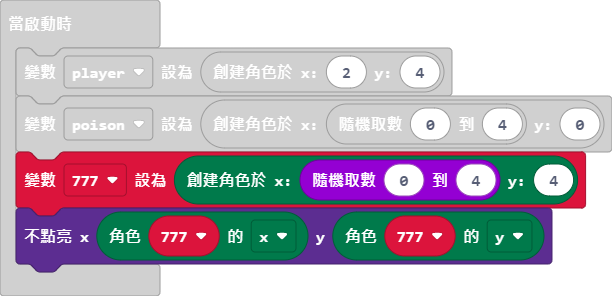
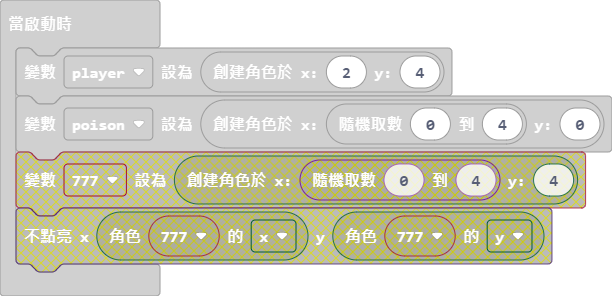
更新 main.blocks, main.ts

diff --git a/main.ts b/main.ts
@@ -7,8 +7,6 @@ input.onButtonPressed(Button.B, function () {
 let player: game.LedSprite = null
 player = game.createSprite(2, 4)
 let poison = game.createSprite(randint(0, 4), 0)
-let _777 = game.createSprite(randint(0, 4), 4)
-led.unplot(_777.get(LedSpriteProperty.X), _777.get(LedSpriteProperty.Y))
 basic.forever(function () {
     for (let index = 0; index < 4; index++) {
         if (player == poison) {
